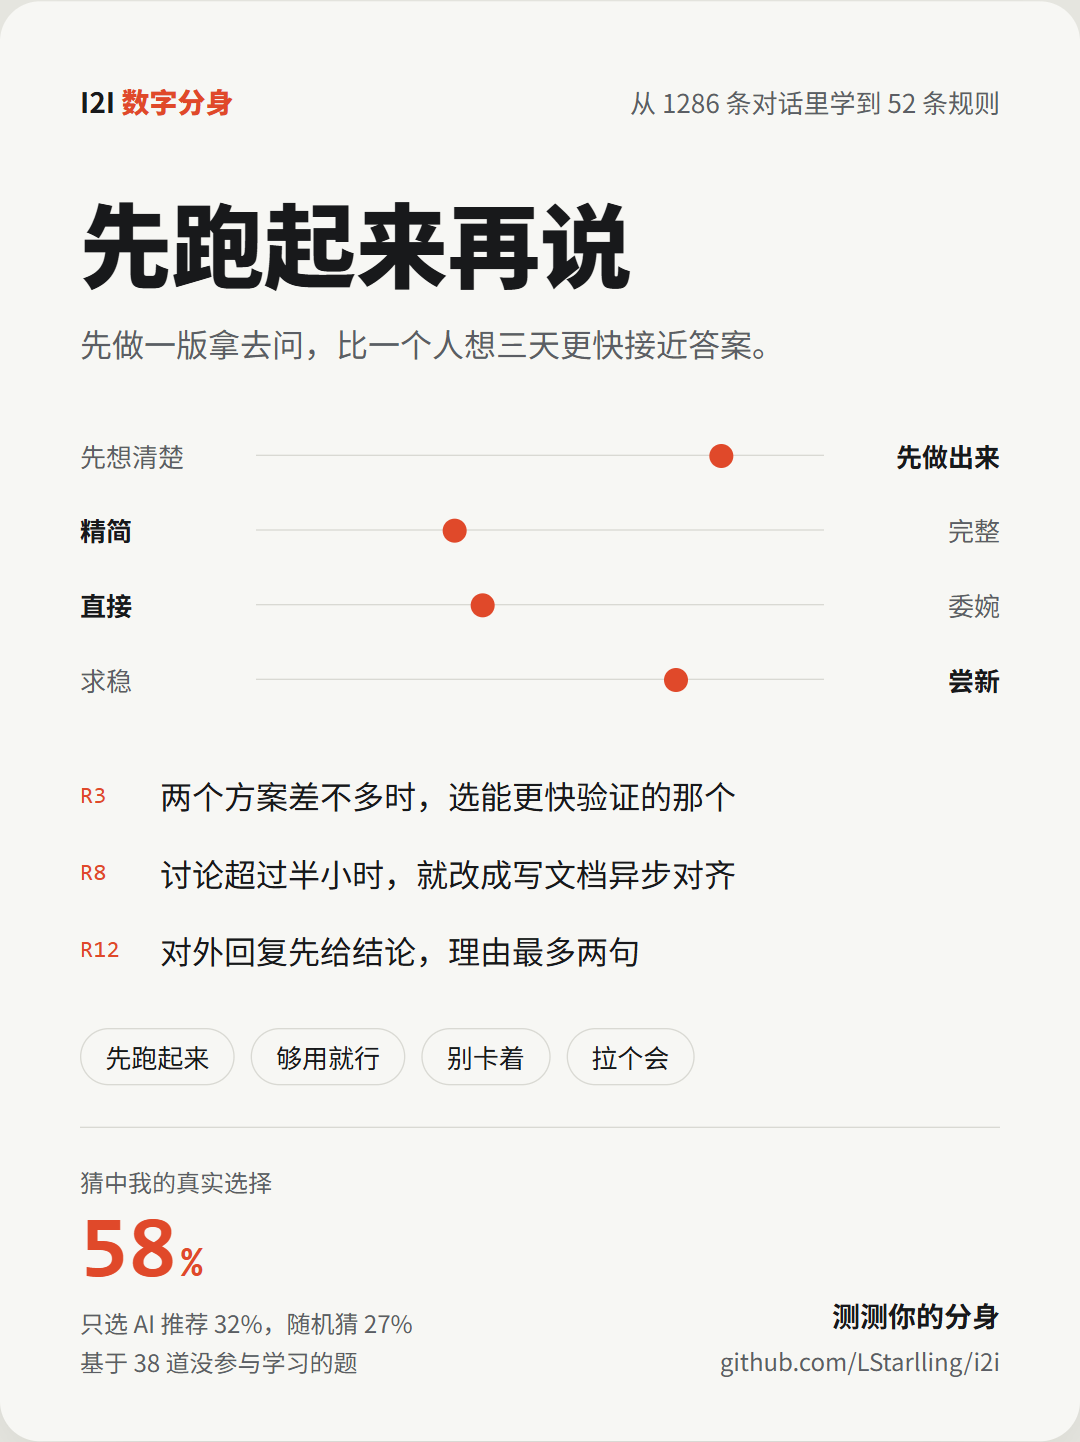
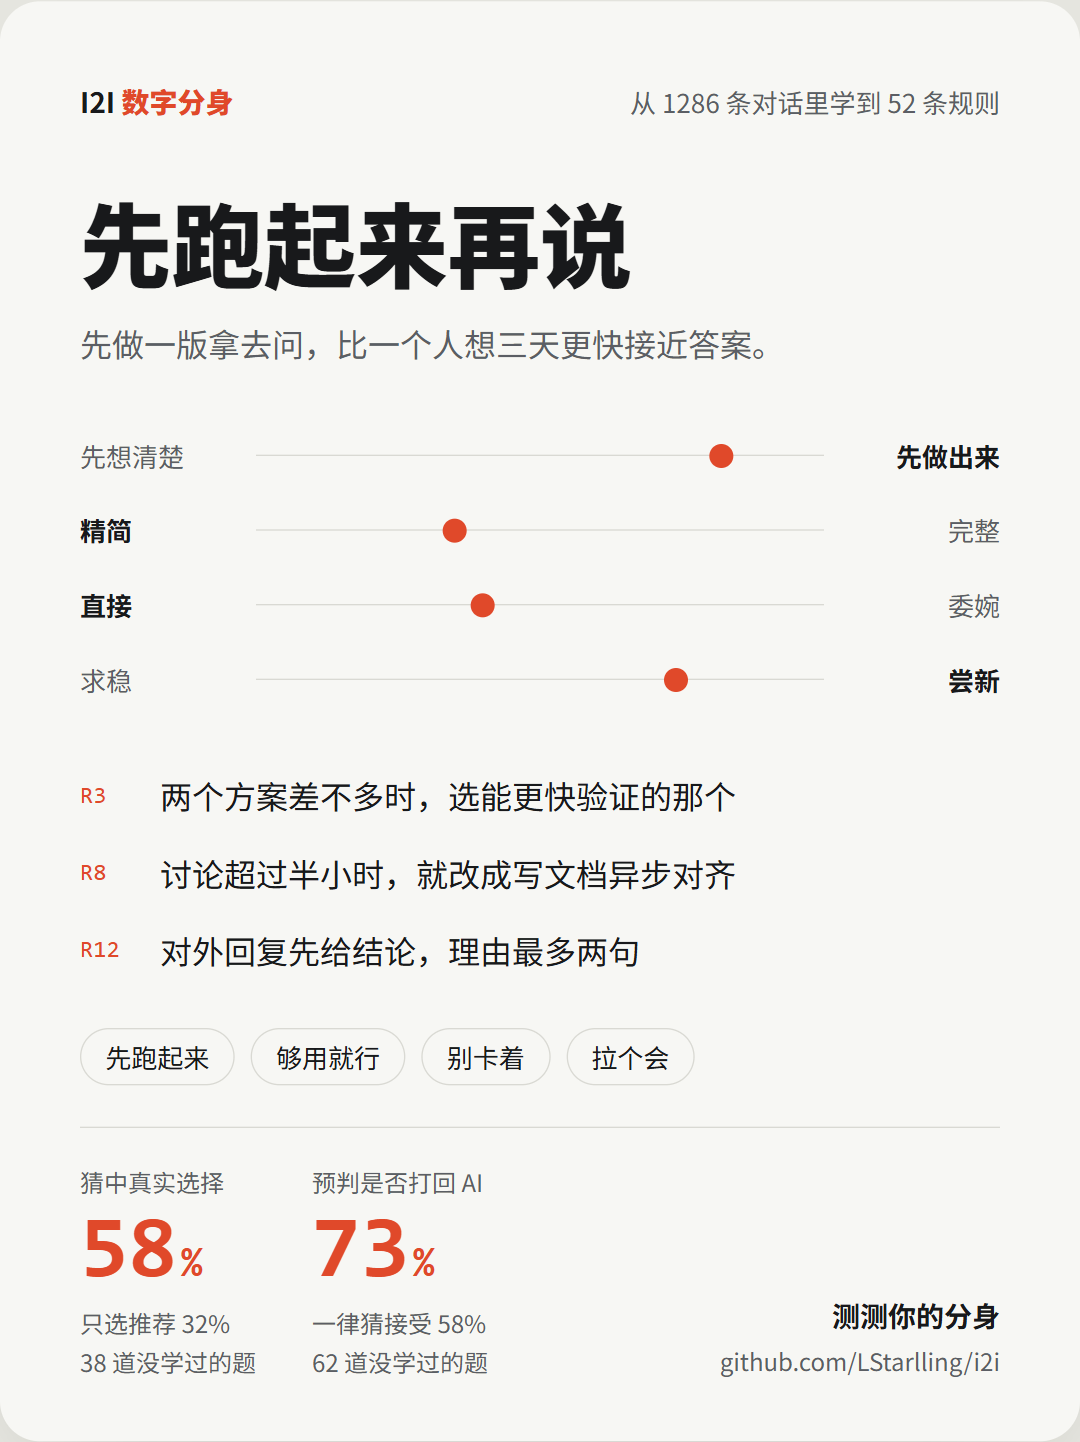
新增打回题：预判用户会接受还是打回 AI 的产出
- 抽取时把两成有 AI 上文的反应留作打回题，不参与提炼
- score.py 支持两类考题；打回题按"先预测、再标注、后评分"进行，并校验先后顺序
- 打回题以"一律猜多数类"为基线，并对照分身预计的问题和用户实际挑的问题
- 分享卡片并排展示两个分数，基线取对应题型的最强基线

Changed region(s): [[0.0611, 0.8114, 0.4583, 0.9674], [0.1222, 0.8114, 0.2444, 0.8426]]

diff --git a/skills/i2i/scripts/score.py b/skills/i2i/scripts/score.py
@@ -1,12 +1,21 @@
 #!/usr/bin/env python3
-"""校准：用留出的真实选择题，测分身猜中你的比例和把握度是否可信。仅依赖标准库。
+"""校准：用没参与学习的真实记录考分身。仅依赖标准库。
 
-  python score.py sample   生成考题（不含答案）到 eval/questions.jsonl
-  python score.py grade    读取 eval/predictions.jsonl 评分，结果追加到 eval/history.jsonl
+两类考题：
+  选择题  你在结构化选择题里的真实选择
+  打回题  AI 交出一版产出后，你是接受还是打回
+
+  python score.py sample choice     生成选择题（不含答案）到 eval/questions.jsonl
+  python score.py sample reaction   生成打回题（不含答案）到 eval/questions.jsonl
+  python score.py label             打回题：预测写完后，输出你的真实回复到 eval/to_label.jsonl 供标注
+  python score.py grade             评分，结果追加到 eval/history.jsonl
+
+predictions.jsonl 每行：
+  选择题 {"id": "...", "pick": ["选项标签"], "p": 0.72}
+  打回题 {"id": "...", "verdict": "打回", "p": 0.7, "reason": "预计会挑的问题"}
+label.jsonl 每行（标注时看不到预测）：{"id": "...", "truth": "接受", "complaint": "实际挑的问题"}
 
 评过分的题记入 eval/used.txt，之后不再出题：猜错的题会被学进档案，再考只会虚高。
-
-predictions.jsonl 每行：{"id": "...", "pick": ["选项标签"], "p": 0.72}
 """
 import json
 import sys
@@ -16,66 +25,134 @@ from extract import HOME
 
 EVAL = HOME / "eval"
 USED = EVAL / "used.txt"
+QUESTIONS = EVAL / "questions.jsonl"
+PREDICTIONS = EVAL / "predictions.jsonl"
+TO_LABEL = EVAL / "to_label.jsonl"
+LABELS = EVAL / "label.jsonl"
+REACTION_ROUND = 40  # 打回题每轮最多出题数，其余留给以后
 
 
 def load(path):
     return [json.loads(l) for l in open(path, encoding="utf-8") if l.strip()]
 
 
-def tests():
+def pool(kind):
     used = set(USED.read_text(encoding="utf-8").split()) if USED.exists() else set()
-    return [s for s in load(HOME / "signals.jsonl")
-            if s.get("split") == "test" and s.get("options") and s["id"] not in used]
+    rows = [s for s in load(HOME / "signals.jsonl") if s.get("split") == "test" and s["id"] not in used]
+    if kind == "choice":
+        return [s for s in rows if s.get("options")]
+    return [s for s in rows if s.get("kind") == "reaction" and s.get("context")][:REACTION_ROUND]
 
 
-def sample():
+def write(path, rows):
+    with open(path, "w", encoding="utf-8") as fp:
+        fp.write("".join(json.dumps(r, ensure_ascii=False) + "\n" for r in rows))
+
+
+def sample(kind):
     EVAL.mkdir(parents=True, exist_ok=True)
-    qs = tests()
-    with open(EVAL / "questions.jsonl", "w", encoding="utf-8") as fp:
-        for s in qs:
-            q = {k: s.get(k) for k in ("id", "project", "ts", "context", "options", "multi")}
-            fp.write(json.dumps(q, ensure_ascii=False) + "\n")
-    print(json.dumps({"考题数": len(qs), "文件": str(EVAL / "questions.jsonl"),
-                      "提示": "少于 10 题时分数不可靠，建议先做快问快答" if len(qs) < 10 else ""},
-                     ensure_ascii=False, indent=2))
+    keys = ("id", "project", "ts", "context", "options", "multi") if kind == "choice" else ("id", "project", "ts", "context")
+    qs = [dict({k: s.get(k) for k in keys}, type=kind) for s in pool(kind)]
+    write(QUESTIONS, qs)
+    for p in (PREDICTIONS, TO_LABEL, LABELS):
+        if p.exists():
+            p.unlink()
+    print(json.dumps({"题型": "选择题" if kind == "choice" else "打回题", "考题数": len(qs), "文件": str(QUESTIONS),
+                      "提示": "少于 10 题时分数不可靠" if len(qs) < 10 else ""}, ensure_ascii=False, indent=2))
 
 
-def grade():
-    truth = {s["id"]: s for s in tests()}
-    preds = [p for p in load(EVAL / "predictions.jsonl") if p.get("id") in truth]
-    if not preds:
-        sys.exit("没有可评分的预测")
-    hits, brier, chance, rec = 0, 0.0, 0.0, 0
-    buckets = {}
+def label():
+    if not PREDICTIONS.exists():
+        sys.exit("先写完 predictions.jsonl 再标注，标注前不能看到真实回复")
+    truth = {s["id"]: s for s in load(HOME / "signals.jsonl")}
+    rows = [{"id": q["id"], "context": q["context"], "reply": truth[q["id"]]["answer"]}
+            for q in load(QUESTIONS) if q.get("type") == "reaction"]
+    write(TO_LABEL, rows)
+    print(json.dumps({"待标注": len(rows), "文件": str(TO_LABEL), "写入": str(LABELS)}, ensure_ascii=False, indent=2))
+
+
+def buckets_of(pairs):
+    b = {}
+    for prob, hit in pairs:
+        k = "{}0%+".format(min(int(prob * 10), 9))
+        n, h = b.get(k, (0, 0))
+        b[k] = (n + 1, h + hit)
+    return {k: "{}/{}".format(h, n) for k, (n, h) in sorted(b.items())}
+
+
+def grade_choice(qs, preds):
+    truth = {s["id"]: s for s in load(HOME / "signals.jsonl")}
+    hits, brier, chance, rec, pairs, misses = 0, 0.0, 0.0, 0, [], []
     for p in preds:
         s = truth[p["id"]]
         hit = set(p.get("pick") or []) == set(s["answer"])
-        rec += [o["label"] for o in s["options"] if "推荐" in o["label"] or "Recommended" in o["label"]] == s["answer"]
         prob = min(max(float(p.get("p", 0.5)), 0.0), 1.0)
         hits += hit
         brier += (prob - hit) ** 2
         chance += 1.0 / (len(s["options"]) + 1)  # 选项数 + “其他”
-        b = "{}0%+".format(min(int(prob * 10), 9))
-        n, h = buckets.get(b, (0, 0))
-        buckets[b] = (n + 1, h + hit)
+        rec += [o["label"] for o in s["options"] if "推荐" in o["label"] or "Recommended" in o["label"]] == s["answer"]
+        pairs.append((prob, hit))
+        if not hit:
+            misses.append({"id": p["id"], "题目": s["context"][:80], "分身猜": p.get("pick"),
+                           "你选": s["answer"], "你的补充": s.get("note", "")})
     n = len(preds)
-    result = {
-        "时间": time.strftime("%Y-%m-%d %H:%M"), "题数": n,
-        "命中率": round(hits / n, 3), "随机猜命中率": round(chance / n, 3),
-        "只选推荐项命中率": round(rec / n, 3),
-        "Brier分数(越低越好)": round(brier / n, 3),
-        "把握度分档实际命中": {k: "{}/{}".format(h, c) for k, (c, h) in sorted(buckets.items())},
-    }
+    return {"类型": "选择题", "题数": n, "命中率": round(hits / n, 3), "随机猜命中率": round(chance / n, 3),
+            "只选推荐项命中率": round(rec / n, 3), "Brier分数(越低越好)": round(brier / n, 3),
+            "把握度分档实际命中": buckets_of(pairs)}, {"猜错的题": misses}
+
+
+def grade_reaction(qs, preds):
+    if not LABELS.exists() or LABELS.stat().st_mtime < PREDICTIONS.stat().st_mtime:
+        sys.exit("先运行 score.py label 并写好 label.jsonl（必须晚于 predictions.jsonl）")
+    labels = {l["id"]: l for l in load(LABELS)}
+    preds = [p for p in preds if p["id"] in labels]
+    if not preds:
+        sys.exit("没有已标注的预测")
+    hits, brier, pairs, reasons, misses = 0, 0.0, [], [], []
+    for p in preds:
+        t = labels[p["id"]]
+        hit = p.get("verdict") == t["truth"]
+        prob = min(max(float(p.get("p", 0.5)), 0.0), 1.0)
+        p_back = prob if p.get("verdict") == "打回" else 1 - prob
+        hits += hit
+        brier += (p_back - (t["truth"] == "打回")) ** 2
+        pairs.append((prob, hit))
+        if hit and t["truth"] == "打回":
+            reasons.append({"id": p["id"], "分身预计": p.get("reason", ""), "你实际": t.get("complaint", "")})
+        if not hit:
+            misses.append({"id": p["id"], "分身猜": p.get("verdict"), "你实际": t["truth"], "你挑的问题": t.get("complaint", "")})
+    n = len(preds)
+    back = sum(labels[p["id"]]["truth"] == "打回" for p in preds) / n
+    major = "打回" if back >= 0.5 else "接受"
+    return {"类型": "打回题", "题数": n, "命中率": round(hits / n, 3), "多数类": major,
+            "一律猜多数类命中率": round(max(back, 1 - back), 3), "Brier分数(越低越好)": round(brier / n, 3),
+            "把握度分档实际命中": buckets_of(pairs)}, {"猜对打回时的理由对照": reasons, "猜错的题": misses}
+
+
+def grade():
+    qs = load(QUESTIONS)
+    ids = {q["id"] for q in qs}
+    preds = [p for p in load(PREDICTIONS) if p.get("id") in ids]
+    if not preds:
+        sys.exit("没有可评分的预测")
+    kind = qs[0].get("type", "choice")
+    result, detail = (grade_choice if kind == "choice" else grade_reaction)(qs, preds)
+    result = dict({"时间": time.strftime("%Y-%m-%d %H:%M")}, **result)
     with open(EVAL / "history.jsonl", "a", encoding="utf-8") as fp:
         fp.write(json.dumps(result, ensure_ascii=False) + "\n")
     with open(USED, "a", encoding="utf-8") as fp:
         fp.write("".join(p["id"] + "\n" for p in preds))
-    misses = [{"id": p["id"], "题目": truth[p["id"]]["context"][:80], "分身猜": p.get("pick"),
-               "你选": truth[p["id"]]["answer"], "你的补充": truth[p["id"]].get("note", "")}
-              for p in preds if set(p.get("pick") or []) != set(truth[p["id"]]["answer"])]
-    result["猜错的题"] = misses
+    result.update(detail)
     print(json.dumps(result, ensure_ascii=False, indent=2))
 
 
 if __name__ == "__main__":
-    {"sample": sample, "grade": grade}.get(sys.argv[1] if len(sys.argv) > 1 else "", lambda: sys.exit(__doc__))()
+    cmd = sys.argv[1:] or [""]
+    if cmd[0] == "sample" and len(cmd) > 1 and cmd[1] in ("choice", "reaction"):
+        sample(cmd[1])
+    elif cmd[0] == "label":
+        label()
+    elif cmd[0] == "grade":
+        grade()
+    else:
+        sys.exit(__doc__)

diff --git a/skills/i2i/scripts/card.py b/skills/i2i/scripts/card.py
@@ -27,17 +27,21 @@ def esc(s):
     return html.escape(str(s))
 
 
-def score():
+def score(kind):
     path = HOME / "eval" / "history.jsonl"
     rows = []
     if path.exists():
         rows = [json.loads(l) for l in open(path, encoding="utf-8") if l.strip()]
-    rows = [r for r in rows if not r.get("污染")]
+    rows = [r for r in rows if not r.get("污染") and r.get("类型", "选择题") == kind]
     n = sum(r["题数"] for r in rows)
     if not n:
         return None
     avg = lambda k: sum(r[k] * r["题数"] for r in rows) / n
-    return {"n": n, "hit": avg("命中率"), "rec": avg("只选推荐项命中率"), "rand": avg("随机猜命中率")}
+    if kind == "选择题":
+        return {"n": n, "hit": avg("命中率"), "base": max(avg("只选推荐项命中率"), avg("随机猜命中率")),
+                "label": "猜中真实选择", "base_name": "只选推荐"}
+    return {"n": n, "hit": avg("命中率"), "base": avg("一律猜多数类命中率"),
+            "label": "预判是否打回 AI", "base_name": "一律猜" + rows[-1]["多数类"]}
 
 
 def stats():
@@ -64,13 +68,13 @@ def render(c):
                     for r in c.get("rules", [])[:3])
     words = "".join("<span>{}</span>".format(esc(w)) for w in c.get("words", [])[:5])
 
-    s = score()
-    if s:
-        foot = ('<div><p class="label">猜中我的真实选择</p><p class="score">{:.0f}<small>%</small></p>'
-                '<p class="cmp">只选 AI 推荐 {:.0f}%，随机猜 {:.0f}%<br>基于 {} 道没参与学习的题</p></div>').format(
-            s["hit"] * 100, s["rec"] * 100, s["rand"] * 100, s["n"])
-    else:
-        foot = '<div><p class="label">猜中我的真实选择</p><p class="score">?</p><p class="cmp">还没校准</p></div>'
+    metrics = [m for m in (score("选择题"), score("打回题")) if m]
+    foot = "".join(
+        '<div class="metric"><p class="label">{}</p><p class="score">{:.0f}<small>%</small></p>'
+        '<p class="cmp">{} {:.0f}%<br>{} 道没学过的题</p></div>'.format(
+            m["label"], m["hit"] * 100, m["base_name"], m["base"] * 100, m["n"]) for m in metrics)
+    if not metrics:
+        foot = '<div class="metric"><p class="label">猜中真实选择</p><p class="score">?</p><p class="cmp">还没校准</p></div>'
 
     return TEMPLATE.format(
         persona=esc(c["persona"]), tagline=esc(c.get("tagline", "")), signals=signals, formal=formal,
@@ -109,6 +113,7 @@ h1 {{ font-size:46px; line-height:1.15; font-weight:800; margin-top:34px; }}
 .words {{ margin-top:26px; display:flex; flex-wrap:wrap; gap:8px; }}
 .words span {{ font-size:13px; padding:4px 12px; border:1px solid var(--line); border-radius:999px; }}
 .foot {{ margin-top:auto; display:flex; justify-content:space-between; align-items:flex-end; border-top:1px solid var(--line); padding-top:18px; }}
+.metrics {{ display:flex; gap:28px; }}
 .label {{ font-size:12px; color:var(--sub); }}
 .score {{ font-size:44px; font-weight:700; line-height:1.1; color:var(--accent); }}
 .score small {{ font-size:20px; margin-left:2px; }}
@@ -126,7 +131,7 @@ h1 {{ font-size:46px; line-height:1.15; font-weight:800; margin-top:34px; }}
   <section class="axes">{axes}</section>
   <ol class="rules">{rules}</ol>
   <div class="words">{words}</div>
-  <footer class="foot">{foot}<div class="repo"><b>测测你的分身</b>{repo}</div></footer>
+  <footer class="foot"><div class="metrics">{foot}</div><div class="repo"><b>测测你的分身</b>{repo}</div></footer>
 </article>
 <p class="hint">截图这张卡片即可分享</p>
 <script>

diff --git a/skills/i2i/scripts/extract.py b/skills/i2i/scripts/extract.py
@@ -28,7 +28,8 @@ HOME = Path(os.environ.get("I2I_HOME") or Path.home() / ".i2i")
 CLAUDE_DIR = Path(os.environ.get("CLAUDE_CONFIG_DIR", Path.home() / ".claude"))
 CODEX_DIR = Path(os.environ.get("CODEX_HOME", Path.home() / ".codex"))
 CHUNK = 120
-TEST_PERCENT = 50
+TEST_PERCENT = 50           # 选择题留作考题的比例
+REACTION_TEST_PERCENT = 20  # 对 AI 回复的反应留作打回题的比例
 
 SECRET = re.compile(
     r"(sk-[A-Za-z0-9_-]{16,}|ghp_[A-Za-z0-9]{20,}|xox[abp]-[A-Za-z0-9-]{10,}"
@@ -212,6 +213,13 @@ def chat(path, me, to):
         prev = ""
 
 
+def is_test(s):
+    bucket = int(s["id"], 16) % 100
+    if s["kind"] == "choice":
+        return bucket < TEST_PERCENT
+    return s["kind"] == "reaction" and bool(s.get("context")) and bucket < REACTION_TEST_PERCENT
+
+
 def main():
     ap = argparse.ArgumentParser(description="从本机 AI 对话记录抽取偏好信号")
     ap.add_argument("--mine", help="你本人发出的消息文本文件（消息之间空一行），用于学习表达风格")
@@ -237,7 +245,7 @@ def main():
             if s["id"] in seen:
                 continue
             seen.add(s["id"])
-            s["split"] = "test" if s["kind"] == "choice" and int(s["id"], 16) % 100 < TEST_PERCENT else "train"
+            s["split"] = "test" if is_test(s) else "train"
             new.append(s)
     new.sort(key=lambda s: s["ts"])
 
@@ -251,6 +259,7 @@ def main():
         fn = pending / "chunk_{}_{:03d}.jsonl".format(stamp, i // CHUNK)
         fn.write_text("".join(json.dumps(s, ensure_ascii=False) + "\n" for s in train[i:i + CHUNK]), encoding="utf-8")
 
+    tests = [json.loads(l) for l in open(store, encoding="utf-8") if '"split": "test"' in l]
     count = {}
     for s in new:
         k = s["source"] + "/" + s["kind"]
@@ -258,8 +267,8 @@ def main():
     print(json.dumps({
         "数据目录": str(HOME), "本次新增": count, "累计信号": len(seen),
         "待提炼分块": sorted(p.name for p in pending.glob("*.jsonl")),
-        "评测题（留出集）": sum(1 for l in open(store, encoding="utf-8")
-                          if '"split": "test"' in l),
+        "考题（留出集）": {"选择题": sum(1 for s in tests if s["kind"] == "choice"),
+                         "打回题": sum(1 for s in tests if s["kind"] == "reaction")},
         "收件箱待导入截图": sum(1 for p in inbox.iterdir() if p.is_file()),
     }, ensure_ascii=False, indent=2))
 

diff --git a/skills/i2i/SKILL.md b/skills/i2i/SKILL.md
@@ -61,13 +61,31 @@ description: 用户的本地数字分身。从用户与 AI 的历史对话中学
 
 ## 四、校准
 
-1. 运行 `scripts/score.py sample`，读取 `~/.i2i/eval/questions.jsonl`。
-2. **只根据 profile.md** 逐题作答，不读 `signals.jsonl`。每题写一行到 `~/.i2i/eval/predictions.jsonl`：`{"id": "...", "pick": ["选项标签"], "p": 0.72}`。多选题的 pick 写全部选中项；判断用户会给出选项外答案时写 `["其他"]`。
-3. 运行 `scripts/score.py grade`，向用户报告：
-   - 命中率，以及"随机猜""只选推荐项"两个基线。只有明显高于两个基线，分数才有意义。
-   - 把握度是否可信：各把握度区间的实际命中情况。
-   - 逐条看猜错的题。从中能学到新规则的，按"六、纠正"处理。
-4. 把结果写进 profile.md 头部的"最近校准"。考题少于 10 道时要注明分数仅供参考，并建议做快问快答。评过分的题会自动退出题库，不会重复出现。
+两类考题依次进行，都只考没参与学习的记录。作答时**只根据 profile.md**，不读 `signals.jsonl`。
+
+**选择题**：用户在结构化选择题里的真实选择。
+
+1. 运行 `scripts/score.py sample choice`，读取 `~/.i2i/eval/questions.jsonl`。
+2. 每题写一行到 `~/.i2i/eval/predictions.jsonl`：`{"id": "...", "pick": ["选项标签"], "p": 0.72}`。多选题的 pick 写全部选中项；判断用户会给出选项外答案时写 `["其他"]`。
+3. 运行 `scripts/score.py grade`。
+
+**打回题**：AI 交出一版产出后，用户是接受还是打回。
+
+1. 运行 `scripts/score.py sample reaction`，读取考题。`context` 是 AI 那条回复的结尾。
+2. 每题写一行预测：`{"id": "...", "verdict": "打回", "p": 0.7, "reason": "预计会挑的问题"}`。verdict 只能是"打回"或"接受"，p 是对这个判断的把握；预测接受时 reason 留空。
+3. 预测全部写完后，运行 `scripts/score.py label`，读取 `eval/to_label.jsonl` 里用户的真实回复。按下面的标准逐条标注，写入 `eval/label.jsonl`：`{"id": "...", "truth": "打回", "complaint": "用户实际挑的问题"}`。标注只看用户的回复，不回头修改预测。
+   - **打回**：用户指出这一版有问题，要求修改、返工，或者否定、质疑它。
+   - **接受**：用户表示满意、继续下一步，或者在认可这一版的基础上提出新需求。
+4. 运行 `scripts/score.py grade`。
+
+**向用户报告**
+
+- 命中率，以及对应的基线：选择题对比"随机猜"和"只选推荐项"，打回题对比"一律猜多数类"。只有明显高于基线，分数才有意义。
+- 把握度是否可信：各把握度区间的实际命中情况。
+- 打回题里猜对了要打回的，对照分身预计的问题和用户实际挑的问题，说明说中了几条。
+- 逐条看猜错的题。从中能学到新规则的，按"六、纠正"处理。
+
+把结果写进 profile.md 头部的"最近校准"。考题少于 10 道时要注明分数仅供参考；选择题不够时建议做快问快答。评过分的题会自动退出题库，不会重复出现。
 
 ## 五、快问快答
 

diff --git a/README.md b/README.md
@@ -49,7 +49,7 @@ cp -r i2i/skills/i2i ~/.codex/skills/   # 以 Codex 为例
 ## 开始使用
 
 1. 对 agent 说"建立我的分身"。它会读取本机的 AI 对话记录（目前支持 Claude Code 和 Codex），提炼出你的偏好规则。
-2. 建档完成后自动校准：用你过去真实做过的选择题考它，得出"分身像你多少"，并和"随机猜""只选 AI 推荐项"两个基线对比。
+2. 建档完成后自动校准，用两类没参与学习的真实记录考它：你做过的选择题，以及 AI 交出产出后你是接受还是打回。每个分数都和对应的基线对比，比如"只选 AI 推荐项""一律猜多数"。
 3. 对话记录里生活类的内容少，可以说"快问快答"，用 5 分钟补齐。
 4. 分身猜错时直接告诉它，这条纠正会立即更新规则。
 5. 想让回复话术更像你，导入一些你和同事、朋友的聊天，方式见下方"导入聊天记录"。
@@ -92,7 +92,7 @@ claude mcp add lark-mcp -- npx -y @larksuiteoapi/lark-mcp mcp -a <app_id> -s <ap
 
 1. **抽取**：从对话记录中找出你做选择、否决、纠正 AI 的时刻。这些是你真正在做决策的地方。
 2. **提炼**：把反复出现的选择总结成规则。每条规则带证据和把握度，可以追溯到具体哪次对话。
-3. **校准**：一半的真实选择题不参与学习，专门用来考分身，所以分数不是自己给自己打的。
+3. **校准**：一半的真实选择题、两成对 AI 的反应不参与学习，专门用来考分身。打回题先预测、后对照真实回复标注，脚本会检查先后顺序，所以分数不是自己给自己打的。
 
 分身档案是一个 Markdown 文件（`~/.i2i/profile.md`），你可以直接阅读和修改。
 
@@ -111,7 +111,8 @@ claude mcp add lark-mcp -- npx -y @larksuiteoapi/lark-mcp mcp -a <app_id> -s <ap
 - [x] 通过飞书官方接口导入消息（实验性）
 - [ ] 支持更多 AI 对话记录：Cursor、ChatGPT 和 Claude 导出
 - [ ] 会话结束时自动增量学习
-- [ ] 用"你会不会打回 AI 的方案"扩充评测题
+- [x] 用"你会不会打回 AI 的方案"扩充评测题
+- [ ] AI 交付前，由分身按你的标准先挑一遍毛病
 
 ## License
 

diff --git a/skills/i2i/references/profile-template.md b/skills/i2i/references/profile-template.md
@@ -2,7 +2,8 @@
 
 - 更新时间：
 - 已提炼信号：0 条（最新信号时间：）
-- 最近校准：未校准（命中率 / 随机猜 / 只选推荐项 / 题数）
+- 最近校准（选择题）：未校准（命中率 / 随机猜 / 只选推荐项 / 题数）
+- 最近校准（打回题）：未校准（命中率 / 一律猜多数类 / 题数）
 - 快问快答进度：
 - 本人昵称：
 
